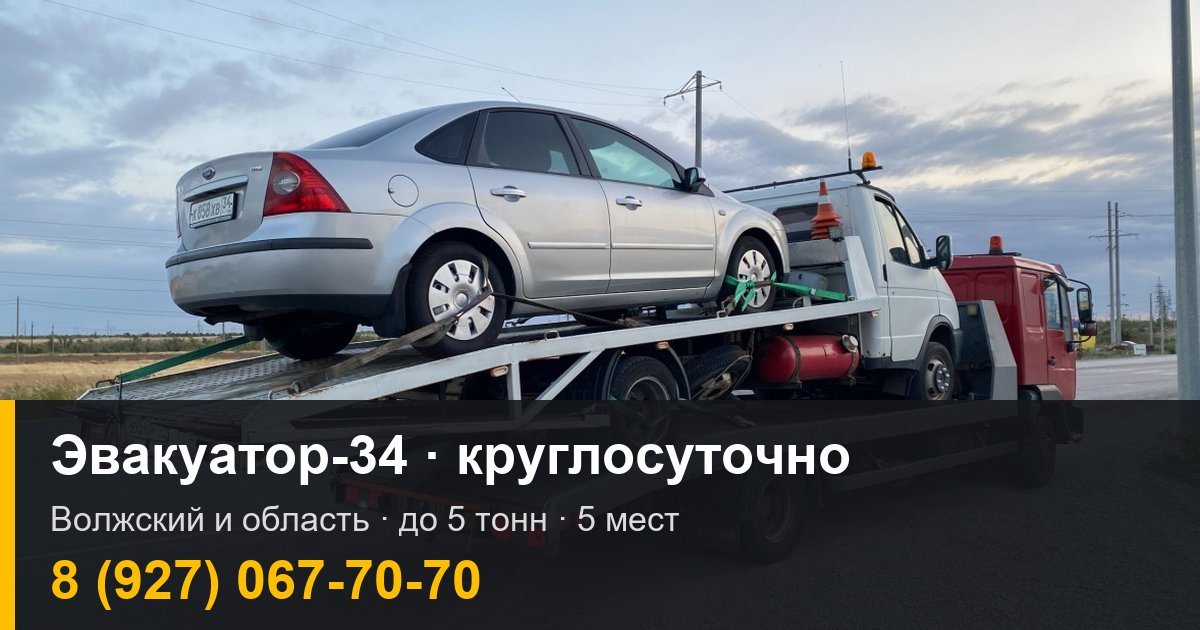
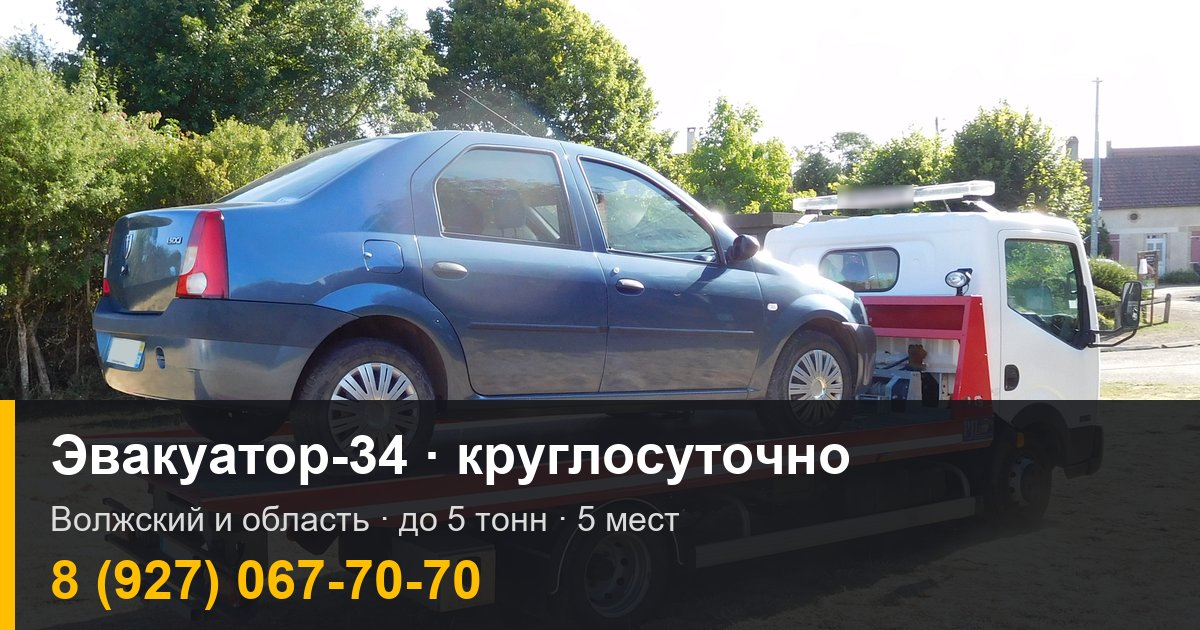
Эффекты на сайте и замена фото «эвакуатор на эвакуаторе»
- первый экран: текст выезжает по очереди, фото «наезжает», параллакс при прокрутке, бегущая «зебра»
- пульс кнопки звонка, покачивание телефона в мобильной панели, тень шапки при прокрутке
- полоса цифр под первым экраном главной со счётчиками (до 5 т, 5 мест, 24/7, 8 территорий, от 1 200 ₽)
- каскадное появление карточек и строк прайса, стрелка на карточках услуг, приближение фото, плавные ответы FAQ
- при «уменьшении движения» в системе анимации отключаются
- фото клиента «эвакуатор везёт эвакуатор» заменено на внутренних страницах и в картинке для соцсетей
  стоковым (Logan на эвакуаторе, Cjp24, Wikimedia Commons, CC BY-SA 4.0, с подписью); из галереи убрано

diff --git a/src/css/style.css b/src/css/style.css
@@ -135,6 +135,7 @@ ul,ol{margin:0;padding:0;list-style:none}
 .hero-full .chips li{background:rgba(255,255,255,.88)}
 .hero-credit{position:absolute;right:12px;bottom:18px;margin:0;font-size:12px;color:var(--muted);background:rgba(255,255,255,.82);padding:3px 8px;border-radius:4px}
 .hero-credit a{color:inherit}
+.hero-media .hero-credit{right:10px;bottom:10px}
 @media(max-width:860px){
   .hero-full{flex-direction:column;align-items:stretch;min-height:0}
   .hero-bg-img{position:relative;order:2;height:250px}
@@ -193,7 +194,7 @@ ul,ol{margin:0;padding:0;list-style:none}
 .fleet-card img{width:100%;aspect-ratio:760/370;object-fit:cover}
 .fleet-card figcaption{padding:18px 20px 20px;color:var(--muted)}
 .fleet-card b{display:block;font:600 22px/1.2 var(--head);text-transform:uppercase;color:var(--text);margin-bottom:6px}
-.gallery{display:grid;grid-template-columns:repeat(3,1fr);gap:16px;margin-top:22px}
+.gallery{display:grid;grid-template-columns:repeat(2,1fr);gap:16px;margin-top:22px}
 @media(max-width:860px){.gallery{grid-template-columns:1fr}}
 .gallery figure{margin:0}
 .gallery img{width:100%;aspect-ratio:4/3;object-fit:cover;border-radius:var(--radius)}
@@ -242,7 +243,8 @@ ul,ol{margin:0;padding:0;list-style:none}
 .faq-item summary{list-style:none;cursor:pointer;padding:16px 50px 16px 18px;position:relative}
 .faq-item summary::-webkit-details-marker{display:none}
 .faq-item summary::after{content:"+";position:absolute;right:18px;top:50%;transform:translateY(-50%);font:500 28px/1 var(--head);color:#c98f00}
-.faq-item[open] summary::after{content:"−"}
+.faq-item summary::after{transition:transform .25s ease}
+.faq-item[open] summary::after{transform:translateY(-50%) rotate(45deg)}
 .faq-item h3{margin:0;font-size:19px;text-transform:none}
 .faq-item p{padding:0 18px 18px;margin:0;color:var(--muted)}
 
@@ -309,7 +311,85 @@ ul,ol{margin:0;padding:0;list-style:none}
 .cookie[hidden]{display:none}
 @media(max-width:860px){.cookie{bottom:84px}}
 
+/* полоса цифр под первым экраном */
+.stats-band{background:var(--white);border-bottom:1px solid var(--line)}
+.stats{display:grid;grid-template-columns:repeat(5,1fr);gap:0}
+.stats li{padding:22px 12px;text-align:center;border-right:1px solid var(--line)}
+.stats li:last-child{border-right:0}
+.stats b{display:block;font:600 clamp(28px,3.2vw,40px)/1 var(--head);color:var(--text)}
+.stats b em{font-style:normal;color:var(--accent-text)}
+.stats li>span{display:block;margin-top:6px;font-size:14.5px;color:var(--muted)}
+.stats [data-count]{font-variant-numeric:tabular-nums}
+@media(max-width:860px){
+  .stats{grid-template-columns:repeat(2,1fr)}
+  .stats li{border-right:0;border-bottom:1px solid var(--line);padding:16px 8px}
+  .stats li:nth-child(odd){border-right:1px solid var(--line)}
+  .stats li:last-child{grid-column:1/-1;border-right:0;border-bottom:0}
+}
+
+/* ---------- эффекты ---------- */
 /* появление при прокрутке — только если JS работает */
-.js .reveal{opacity:0;transform:translateY(18px);transition:opacity .5s ease,transform .5s ease}
+.js .reveal{opacity:0;transform:translateY(22px);transition:opacity .6s cubic-bezier(.2,.7,.2,1),transform .6s cubic-bezier(.2,.7,.2,1)}
 .js .reveal.is-in{opacity:1;transform:none}
-@media(prefers-reduced-motion:reduce){html{scroll-behavior:auto}.js .reveal{opacity:1;transform:none;transition:none}*{transition:none!important}}
+.js .price-table tr.reveal{transform:translateX(-12px)}
+.js .price-table tr.reveal.is-in{transform:none}
+
+/* первый экран: текст выезжает по очереди, фото плавно «наезжает» */
+@keyframes heroIn{from{opacity:0;transform:translateY(18px)}to{opacity:1;transform:none}}
+@keyframes heroZoom{from{transform:scale(1.08)}to{transform:scale(1)}}
+.js .hero-text>*{animation:heroIn .55s cubic-bezier(.2,.7,.2,1) both}
+.js .hero-text>:nth-child(2){animation-delay:.06s}
+.js .hero-text>:nth-child(3){animation-delay:.14s}
+.js .hero-text>:nth-child(4){animation-delay:.22s}
+.js .hero-text>:nth-child(5){animation-delay:.3s}
+.js .hero-text>:nth-child(6){animation-delay:.38s}
+.js .hero-media{animation:heroIn .7s .15s cubic-bezier(.2,.7,.2,1) both}
+.hero-bg-img{overflow:hidden}
+@media(min-width:861px){.js .hero-bg-img{animation:heroZoom 1.8s cubic-bezier(.2,.7,.2,1) both}}
+.hero-bg-img img{will-change:transform}
+
+/* «зебра» внизу первого экрана медленно бежит */
+@keyframes stripes{to{background-position:50.9px 0}}
+.hero::after,.page-head::after{animation:stripes 2.4s linear infinite}
+
+/* кнопка звонка мягко пульсирует, телефон в мобильной панели покачивается */
+@keyframes ring{0%{box-shadow:0 6px 20px rgba(255,190,0,.35),0 0 0 0 rgba(255,190,0,.55)}70%,100%{box-shadow:0 6px 20px rgba(255,190,0,.35),0 0 0 16px rgba(255,190,0,0)}}
+@keyframes wiggle{0%,80%,100%{transform:rotate(0)}84%{transform:rotate(-14deg)}88%{transform:rotate(12deg)}92%{transform:rotate(-8deg)}96%{transform:rotate(5deg)}}
+.hero .btn-call,.mb-call{animation:ring 2.4s ease-out infinite}
+.btn-call .btn-ico svg,.mb-call svg{animation:wiggle 3.2s ease-in-out infinite;transform-origin:50% 50%}
+
+/* шапка получает тень при прокрутке */
+.site-header{transition:box-shadow .25s ease}
+.scrolled .site-header{box-shadow:0 6px 24px rgba(60,45,10,.12)}
+
+/* карточки услуг: стрелка выезжает при наведении */
+.svc-card{position:relative}
+.svc-card::after{content:"→";position:absolute;right:20px;bottom:18px;font:600 24px/1 var(--head);color:var(--accent-text);opacity:0;transform:translateX(-10px);transition:opacity .2s,transform .2s}
+.svc-card:hover::after{opacity:1;transform:none}
+.svc-price{transition:background .2s}
+.svc-card:hover .svc-price{background:var(--amber)}
+
+/* фото приближаются при наведении */
+.gallery figure,.fleet-card{overflow:hidden}
+.gallery figure img,.fleet-card img{transition:transform .5s cubic-bezier(.2,.7,.2,1)}
+.gallery figure:hover img,.fleet-card:hover img{transform:scale(1.045)}
+.gallery figure{border-radius:var(--radius)}
+
+/* иконки и номера шагов «выпрыгивают» при появлении */
+@keyframes pop{0%{transform:scale(.4)}70%{transform:scale(1.12)}100%{transform:scale(1)}}
+.js .why-card.is-in .why-ico,.js .steps li.is-in .step-n{animation:pop .5s .15s cubic-bezier(.2,.7,.2,1) both}
+.why-card,.geo-card{transition:border-color .2s,transform .2s,box-shadow .2s}
+.why-card:hover{transform:translateY(-3px);box-shadow:var(--shadow);border-color:var(--amber)}
+
+/* плавное раскрытие ответов (где браузер умеет) */
+@supports selector(::details-content){
+  :root{interpolate-size:allow-keywords}
+  .faq-item::details-content{height:0;overflow:clip;transition:height .3s ease,content-visibility .3s allow-discrete}
+  .faq-item[open]::details-content{height:auto}
+}
+
+@media(prefers-reduced-motion:reduce){
+  html{scroll-behavior:auto}
+  .js .reveal,.js .price-table tr.reveal{opacity:1;transform:none}
+  *,*::before,*::after{transition:none!important;animation:none!important}
+}

diff --git a/src/js/main.js b/src/js/main.js
@@ -85,13 +85,56 @@
   });
 
   // плавное появление блоков
+  var calm = window.matchMedia('(prefers-reduced-motion: reduce)').matches;
+
   if ('IntersectionObserver' in window) {
-    var els = document.querySelectorAll('main .section h2, .svc-grid li, .why-card, .steps li, .geo-grid li, .gallery figure, .fleet-card');
+    var els = document.querySelectorAll('main .section h2, .svc-grid li, .why-card, .steps li, .geo-grid li, .gallery figure, .fleet-card, .stats li, .price-table tbody tr, .faq-item');
     var io = new IntersectionObserver(function (entries) {
       entries.forEach(function (en) {
         if (en.isIntersecting) { en.target.classList.add('is-in'); io.unobserve(en.target); }
       });
     }, { rootMargin: '0px 0px -40px 0px' });
-    els.forEach(function (el) { el.classList.add('reveal'); io.observe(el); });
+    els.forEach(function (el) {
+      // каскад: соседние элементы одной сетки появляются друг за другом
+      var i = Array.prototype.indexOf.call(el.parentNode.children, el);
+      if (i > 0) el.style.transitionDelay = Math.min(i, 8) * 60 + 'ms';
+      el.classList.add('reveal');
+      io.observe(el);
+    });
+
+    // счётчики: в HTML уже настоящее число (для поисковиков), анимируем только видимые
+    var counters = document.querySelectorAll('[data-count]');
+    var cio = new IntersectionObserver(function (entries) {
+      entries.forEach(function (en) {
+        if (!en.isIntersecting) return;
+        cio.unobserve(en.target);
+        if (calm) return;
+        var el = en.target, to = +el.getAttribute('data-count'), t0 = null;
+        function step(t) {
+          if (!t0) t0 = t;
+          var p = Math.min((t - t0) / 1100, 1), v = Math.round(to * (1 - Math.pow(1 - p, 3)));
+          el.textContent = v.toLocaleString('ru-RU');
+          if (p < 1) requestAnimationFrame(step);
+        }
+        requestAnimationFrame(step);
+      });
+    }, { threshold: 0.6 });
+    counters.forEach(function (el) { cio.observe(el); });
   }
+
+  // тень у шапки при прокрутке и лёгкий параллакс фото на первом экране
+  var heroImg = document.querySelector('.hero-bg-img img');
+  var ticking = false;
+  function onScroll() {
+    var y = window.scrollY;
+    doc.classList.toggle('scrolled', y > 8);
+    if (heroImg && !calm && window.innerWidth > 860 && y < window.innerHeight) {
+      heroImg.style.transform = 'translate3d(0,' + (y * 0.22).toFixed(1) + 'px,0)';
+    }
+    ticking = false;
+  }
+  window.addEventListener('scroll', function () {
+    if (!ticking) { ticking = true; requestAnimationFrame(onScroll); }
+  }, { passive: true });
+  onScroll();
 })();

diff --git a/build.py b/build.py
@@ -394,7 +394,6 @@ def geo_grid(exclude=None, title="Где работаем"):
 
 def gallery_block():
     items = [
-        ("evakuator-legkovoy", "Перевозка легкового автомобиля", "Серебристый седан на платформе эвакуатора"),
         ("evakuaciya-traktorov", "Два трактора — два эвакуатора", "Два эвакуатора Hyundai HD78 с тракторами Беларус"),
         ("evakuaciya-traktora", "Трактор на платформе", "Зелёный трактор Zoomlion на красном эвакуаторе"),
     ]
@@ -426,6 +425,7 @@ def hero(h1, lead, img, img_alt, chips, eyebrow, bg=None):
         bg_html = f'<div class="hero-bg-img">{picture(name, alt, sizes="100vw", eager=True)}</div>'
         credit = f'<p class="hero-credit">{credit}</p>'
     cls = " hero-full" if bg else " hero-noimg" if not img else ""
+    media_credit = f'<p class="hero-credit">{STOCK_CREDITS[img]}</p>' if img in STOCK_CREDITS else ""
     return f'''<section class="hero{cls}">{bg_html}<div class="wrap hero-in">
   <div class="hero-text">
     <p class="eyebrow">{eyebrow}</p>
@@ -435,8 +435,29 @@ def hero(h1, lead, img, img_alt, chips, eyebrow, bg=None):
     <div class="hero-actions">{tel_link("btn btn-call btn-lg")}{messenger_btn("whatsapp", "WhatsApp", "https://wa.me/{}")}</div>
     <p class="hero-note">Круглосуточно · вызов бесплатно</p>
   </div>
-  {f'<div class="hero-media">{pic}</div>' if pic and not bg else ''}
+  {f'<div class="hero-media">{pic}{media_credit}</div>' if pic and not bg else ''}
 </div>{credit}</section>'''
+
+
+# стоковые фото и их обязательные подписи (лицензия CC BY-SA требует указать автора)
+STOCK_CREDITS = {
+    "evakuator-logan": 'Фото для примера · Cjp24, <a href="https://commons.wikimedia.org/wiki/File:Dacia_Logan_sur_d%C3%A9panneuse.jpg" '
+                       'target="_blank" rel="noopener">Wikimedia Commons</a>, <a href="https://creativecommons.org/licenses/by-sa/4.0/deed.ru" '
+                       'target="_blank" rel="noopener">CC BY-SA 4.0</a>',
+}
+
+
+def stats_block():
+    """Полоса цифр под первым экраном. Только факты с сайта; data-count — для анимации счёта."""
+    items = [
+        ('до <span data-count="5">5</span> т', "грузоподъёмность"),
+        ('<span data-count="5">5</span> мест', "в кабине для пассажиров"),
+        ('<em>24/7</em>', "без выходных и праздников"),
+        ('<span data-count="8">8</span>', f"городов и районов, включая Знаменск"),
+        ('от <span data-count="1200">1 200</span> ₽', "вызов бесплатно"),
+    ]
+    li = "".join(f"<li><b>{v}</b><span>{esc(t)}</span></li>" for v, t in items)
+    return f'<section class="stats-band" aria-label="Коротко о нас"><ul class="wrap stats">{li}</ul></section>'
 
 
 # ---------- страницы ----------
@@ -447,13 +468,14 @@ def home():
         "Эвакуатор в Волжском и районах области — круглосуточно",
         "Перевезём любую технику до 5 тонн: автомобили, мотоциклы, тракторы, лодки. "
         "Есть эвакуатор с кабиной на 5 мест — пассажиры едут вместе с машиной.",
-        "evakuator-legkovoy", "Эвакуатор везёт серебристый седан по трассе под Волжским",
+        None, "",
         ["Вызов бесплатно", "Легковые от 1 500 ₽", "До 5 тонн", "До 5 пассажиров"],
         "Волжский · Ахтуба · Ленинск · Быково · Краснослободск · Дубовка · Горный Балыклей · Знаменск",
         bg=("hero-evakuator", "Эвакуатор с платформой везёт жёлтый спорткар по городу",
             'Фото для примера · <a href="https://commons.wikimedia.org/wiki/File:Moscow,_yellow_Porsche_on_a_red-white_Iveco,_May_2026_01.jpg" '
             'target="_blank" rel="noopener">Wikimedia Commons</a>, CC0'),
     )
+    body += stats_block()
     body += services_grid()
     body += f'''<section class="section section-alt" id="ceny"><div class="wrap price-layout">
   <div><h2>Стоимость услуг</h2>
@@ -524,8 +546,8 @@ def geo_page(g):
     focus = "".join(f'<li><a class="svc-card" href="/{k}/"><h3>{esc(SERVICES[k]["nav"])}</h3><p>{esc(SERVICES[k]["short"])}</p>'
                     f'<span class="svc-price">{esc(SERVICES[k]["price_from"])}</span></a></li>' for k in g["services_focus"])
     related = " · ".join(f'<a href="/{r}/">{esc(GEO[r]["name"])}</a>' for r in g["related"])
-    body = hero(esc(g["h1"]), esc(g["lead"]), "evakuator-legkovoy" if g["slug"] != "evakuator-bykovo" else "evakuaciya-traktorov",
-                f'Эвакуатор {g["in"]}', ["Вызов бесплатно", "Легковые от 1 500 ₽", "До 5 тонн", "До 5 пассажиров"],
+    body = hero(esc(g["h1"]), esc(g["lead"]), "evakuator-logan" if g["slug"] != "evakuator-bykovo" else "evakuaciya-traktorov",
+                "Синий седан на платформе эвакуатора" if g["slug"] != "evakuator-bykovo" else f'Эвакуатор {g["in"]}', ["Вызов бесплатно", "Легковые от 1 500 ₽", "До 5 тонн", "До 5 пассажиров"],
                 f'{esc(g["name"])} · {esc(g["region"])} · 24/7')
     body += f'''<section class="section"><div class="wrap two-col">
   <div class="prose">

diff --git a/tools/prep_images.py b/tools/prep_images.py
@@ -10,7 +10,6 @@ OUT.mkdir(parents=True, exist_ok=True)
 
 # имя файла → (исходник, кадрирование или None)
 PHOTOS = {
-    "evakuator-legkovoy": ("1f6048ad29ccd61b2c92dce92405fb69_1180x884.jpg", None),
     "evakuaciya-traktorov": ("6e3897a68ac23d05b90c74efaabc4dca_1180x884.jpg", None),
     "evakuaciya-traktora": ("cea39c185c9c451aba2acd981f9304cf_1180x888.jpg", None),
     # коллаж 800×800: сверху ГАЗель на 5 мест, снизу Hyundai HD78 на 5 тонн
@@ -56,8 +55,17 @@ hero = ImageOps.mirror(hero)
 for w in (2400, 1600, 960):
     hero.resize((w, round(hero.height * w / hero.width)), Image.LANCZOS).save(OUT / f"hero-evakuator-{w}.webp", "WEBP", quality=78, method=6)
 
-# OG-картинка: фото легкового эвакуатора + тёмная плашка с телефоном
-og = Image.open(SRC / PHOTOS["evakuator-legkovoy"][0]).convert("RGB")
+# Стоковое фото для внутренних страниц (Wikimedia Commons, Cjp24, CC BY-SA 4.0):
+# https://commons.wikimedia.org/wiki/File:Dacia_Logan_sur_d%C3%A9panneuse.jpg
+# Номера на нём пустые; размываем надпись DEPANNAGE на проблесковом маячке.
+logan = Image.open(ROOT / "_stock" / "logan-commons-original.jpg").convert("RGB")
+k = logan.width / 1920
+box = tuple(round(v * k) for v in (1340, 512, 1462, 550))
+logan.paste(logan.crop(box).filter(ImageFilter.GaussianBlur(10)), box)
+manifest["evakuator-logan"] = save_webp(logan, "evakuator-logan")
+
+# OG-картинка: стоковое фото эвакуатора с машиной + тёмная плашка с телефоном
+og = logan.copy()
 scale = 1200 / og.width
 og = og.resize((1200, round(og.height * scale)), Image.LANCZOS)
 top = (og.height - 630) // 2

diff --git a/content.py b/content.py
@@ -21,8 +21,8 @@ SERVICES = [
         "desc": "Эвакуация легковых автомобилей в Волжском и районах области круглосуточно. От 1 500 ₽, вызов бесплатно, 5 мест для пассажиров. 8 (927) 067-70-70.",
         "h1": "Эвакуация легковых автомобилей",
         "lead": "Эвакуатор для легкового автомобиля в Волжском и районах области стоит от 1 500 ₽, вызов бесплатный. Работаем круглосуточно. " + SEATS,
-        "img": "evakuator-legkovoy",
-        "img_alt": "Серебристый седан закреплён на платформе эвакуатора на трассе",
+        "img": "evakuator-logan",
+        "img_alt": "Синий седан закреплён на платформе эвакуатора",
         "price_keys": ["Вызов эвакуатора", "Легковые автомобили", "Заблокированное колесо, за 1 шт.",
                        "Неисправное рулевое управление", "Межгород, за 1 км"],
         "sections": [

diff --git a/README.md b/README.md
@@ -12,7 +12,7 @@
 | `src/css`, `src/js`, `src/fonts`, `src/img` | Стили, скрипт, шрифты Oswald и PT Sans (свои файлы, не Google), фото в WebP |
 | `tools/prep_images.py` | Пересобирает WebP, OG-картинку и иконки из фото старого сайта |
 | `_old_site/` | Копия старого сайта: HTML и 4 фото |
-| `_stock/` | Стоковое фото для фона главной: [Wikimedia Commons, CC0](https://commons.wikimedia.org/wiki/File:Moscow,_yellow_Porsche_on_a_red-white_Iveco,_May_2026_01.jpg). `prep_images.py` размывает на нём номера и надписи и отзеркаливает его. На сайте подписано «Фото для примера». Когда будет широкое (от 2400 px) фото эвакуатора клиента, заменить его. |
+| `_stock/` | Стоковые фото. Для внутренних страниц и картинки для соцсетей — [Logan на эвакуаторе, Cjp24, CC BY-SA 4.0](https://commons.wikimedia.org/wiki/File:Dacia_Logan_sur_d%C3%A9panneuse.jpg); подпись с автором обязательна, `build.py` ставит её сам (`STOCK_CREDITS`). Для фона главной: [Wikimedia Commons, CC0](https://commons.wikimedia.org/wiki/File:Moscow,_yellow_Porsche_on_a_red-white_Iveco,_May_2026_01.jpg). `prep_images.py` размывает на нём номера и надписи и отзеркаливает его. На сайте подписано «Фото для примера». Когда будет широкое (от 2400 px) фото эвакуатора клиента, заменить его. |
 
 ```
 python build.py          # черновик: пробелы в фактах видны оранжевыми пометками

diff --git a/HANDOFF.md b/HANDOFF.md
@@ -37,6 +37,8 @@
   - Фото стоковое (CC0, отзеркалено, номера размыты), подписано «Фото для примера».
   - У клиента фото только 1178 px, для фона на весь экран это мало. Если клиент пришлёт широкое фото своего эвакуатора, поставить его.
   - unsplash.com и Pexels из РФ не открываются, поэтому фото с Wikimedia Commons.
+- Фото клиента «эвакуатор везёт эвакуатор с машиной» пользователь забраковал. На внутренних страницах вместо него стоковое (Logan, CC BY-SA, с подписью автора). Из галереи «Наши эвакуаторы в работе» оно убрано, стоковые фото туда не ставить: там только реальные работы.
+- Эффекты: появление блоков, параллакс фото, бегущая «зебра», пульс кнопки звонка, счётчики. При «уменьшении движения» в системе всё отключается.
 
 ## Что осталось
 
